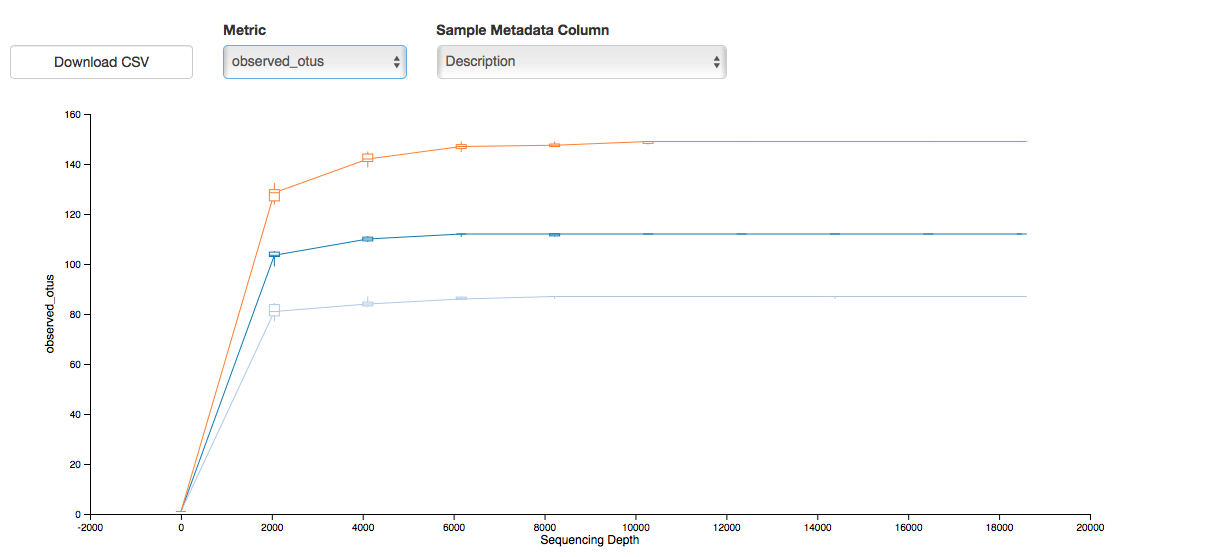
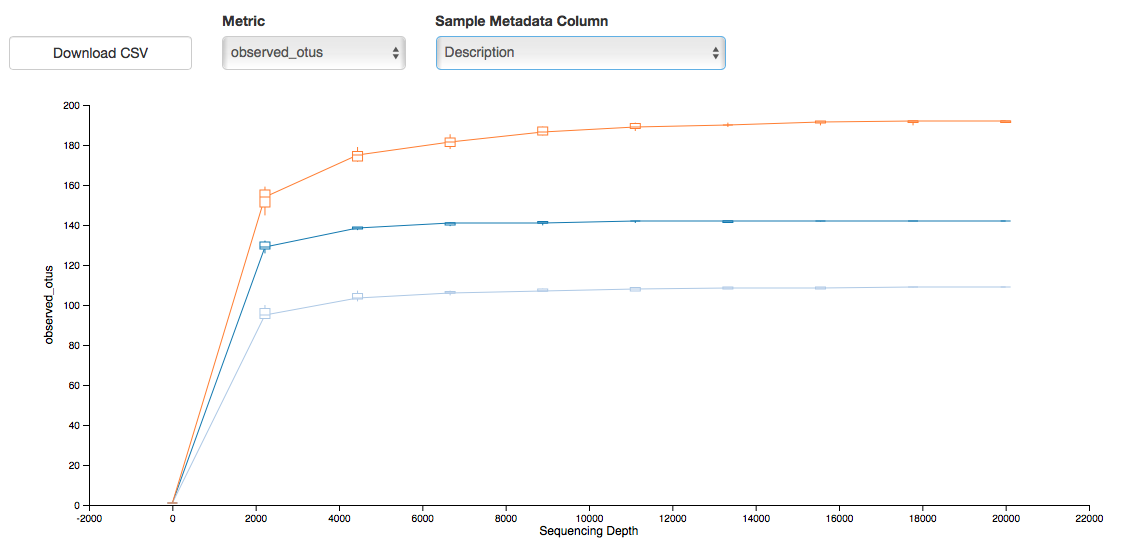
Update

diff --git a/EcoBioTec_NGS_tutorial.md b/EcoBioTec_NGS_tutorial.md
@@ -5,7 +5,7 @@ given by [**António Sousa**](https://antonioggsousa.github.io)
 
 ## Introduction
 
-First of all you need to understand the data before start. Several considerations should be taken into account before the data analysis begin depending on the sequencing technology, library preparation/chemistry, and amplicon region chosen. This tutorial has the propose to preprocess/filter, assign taxonomy, and explore diversity 
+First of all you need to understand the data before start. Several considerations should be taken into account before the data analysis begin depending on the sequencing technology, library preparation/chemistry, and amplicon region chosen. This tutorial has the purpose to preprocess/filter, assign taxonomy, and explore diversity 
 patterns of 16S rRNA amplicon sequencing data from Illumina MiSeq. To this end, we will carry out this tutorial with few samples (n=3) from the large campaign of [Ocean Sampling Day 2014](https://www.microb3.eu/events/workshops/ocean-sampling-day-2014.html) (henceforward **OSD14**). 
 
 Processing sequence reads into comprehensive biological information consists in decreasing the level of complexity 
@@ -280,7 +280,7 @@ Open each **fastqc** *html* report created for each file to have a look into the
 Run the **DADA2** algorithm/pipeline: 
 
 
-    qiime dada2 denoise-paired --i-demultiplexed-seqs demux-paired-end_OSD14.qza --p-trunc-len-f 250 --p-trunc-len-r 250 --p-n-threads 4 --o-representative-sequences rep-seqs-dada2_OSD14.qza --o-table table-dada2_OSD14.qza --output-dir dada2-dmx-pe_OSD14
+    qiime dada2 denoise-paired --i-demultiplexed-seqs demux-paired-end_OSD14.qza --p-trunc-len-f 225 --p-trunc-len-r 225 --p-n-reads-learn 30000 --p-n-threads 4 --o-representative-sequences rep-seqs-dada2_OSD14.qza --o-table table-dada2_OSD14.qza --output-dir dada2-dmx-pe_OSD14
 
 <br>
 
@@ -305,88 +305,129 @@ The results produced above can be summarized and vizualized using the following 
 
 We already have the **ASV table** (with the frequency of occurrence of each *ASV* sequence) as well as **representative sequences** (for each *ASV*). 
 
-Now, we can use a trained classifier (not recommend) or train the classifier 
+Now, we will classify the **ASVs representative sequences** using the **Naive Bayes classifier**. As any other classifier, the accuracy of **Naive Bayes classifier** depends on training data, i.e., the 16S rRNA gene database. It has been proved that training only the hypervariable region targeted by the primers used in the study in question improves the accuracy of **Naive Bayes classifier**. 
 
-Get the greengenes database:
+For the purpose of this tutorial we will not train the classifier ([*see how to train the classifier!*](https://docs.qiime2.org/2018.4/tutorials/feature-classifier/)), but instead we will used a pretrained classifier (*although not totally recommend!*) - **Greengenes 13_8 99% OTUs full-length sequences**.   
 
-    wget -O "gg-13-8-99-515-806-nb-classifier.qza" "https://data.qiime2.org/2018.2/common/gg-13-8-99-515-806-nb-classifier.qza"
+First, download the Greengenes database and check their integrity (with **MD5 checksum**):
 
-Classify your ASVs:
+    wget -O "gg-13-8-99-classifier.qza" "https://data.qiime2.org/2018.4/common/gg-13-8-99-nb-classifier.qza"
 
-    qiime feature-classifier classify-sklearn --i-classifier gg-13-8-99-515-806-nb-classifier.qza --i-reads rep-seqs-dada2_OSD14.qza --o-classification taxonomy-rep-seqs-dada2_OSD14.qza
+    md5 gg-13-8-99-classifier.qza
 
-Tabulate:
+If the result of **MD5 checksum** is the same as *MD5: bb72a9e3f1a4c810dd50bceef3508105*, it means that the database was properly downloaded (*in our case should give this: MD5 (gg-13-8-99-classifier.qza) = bb72a9e3f1a4c810dd50bceef3508105*).
+
+**Note:** You should keep in mind that **Greengenes** is **not updated** since **May, 2013**. 
+
+Then, classify the **ASVs representative sequences** with **Naives Bayes classifier**:
+
+    qiime feature-classifier classify-sklearn --i-classifier gg-13-8-99-classifier.qza --i-reads rep-seqs-dada2_OSD14.qza --o-classification taxonomy-rep-seqs-dada2_OSD14.qza
+
+Finally, get your **ASV table** with **taxonomy**:
 
     qiime metadata tabulate --m-input-file taxonomy-rep-seqs-dada2_OSD14.qza --o-visualization taxonomy-rep-seqs-dada2_OSD14.qzv 
 
     qiime tools view taxonomy-rep-seqs-dada2_OSD14.qzv
 
 
-Barplot:
+Get the prokaryotic profile (*barplot it!*):
 
     qiime taxa barplot --i-table table-dada2_OSD14.qza --i-taxonomy taxonomy-rep-seqs-dada2_OSD14.qza --m-metadata-file metadata/osd14_metadata.tsv --o-visualization taxa-bar-plots_OSD14.qzv
 
     qiime tools view taxa-bar-plots_OSD14.qzv
 
+The profile at **phylum level** should look like this:
 
-![taxa bar plot](plots/level-6-bars.svg)
-![legend bar plot](plots/level-6-legend.svg)
+![taxa bar plot](plots/barplot_taxa.png)
 
-#### Diversity Analyses
-#### Alpha and Beta Diversity
 
-Several diversity metrics are based on phylogenetic methods requiring a phylogeny. Therefore, for that propose we will do a maximum-likelihood tree (ML).
+### Alpha and beta Diversity
+#### Phylogenetic tree
 
-First, you need to perform a multiple sequence alignment (MSA) with MAFFT:
+Several diversity metrics are based on phylogenetic methods requiring a phylogenetic tree. Therefore, for that purpose we will do a maximum-likelihood tree (ML).
+
+First, you need to perform a multiple sequence alignment (MSA) with **MAFFT**:
 
     qiime alignment mafft --i-sequences rep-seqs-dada2_OSD14.qza --o-alignment mafft-rep-seqs-dada2_OSD14.qza
 
-Eliminate highly variable positions, to avoid overestimate distances:
+Then, eliminate the highly variable positions, to avoid overestimate distances:
 
     qiime alignment mask --i-alignment mafft-rep-seqs-dada2_OSD14.qza --o-masked-alignment masked-msa-rep-seqs-dada2_OSD14.qza
 
-Do a ML tree with FastTree:
+Finaly, build the ML tree with **FastTree**:
 
     qiime phylogeny fasttree --i-alignment masked-msa-rep-seqs-dada2_OSD14.qza --o-tree unroot-ml-tree-masked_OSD14.qza
 
-Root your unrooted tree based on midpoint rooting method:
+Additionally, root your unrooted tree based on midpoint rooting method:
 
     qiime phylogeny midpoint-root --i-tree unroot-ml-tree-masked_OSD14.qza --o-rooted-tree root-ml-tree_OSD14.qza
 
+<br>
 
-#### Core Diversity Analysis
+#### Core diversity analysis
 
-    qiime diversity core-metrics-phylogenetic --i-phylogeny root-ml-tree_OSD14.qza --i-table table-dada2_OSD14.qza --p-sampling-depth 18500 --m-metadata-file metadata/osd14_metadata.tsv --output-dir core-metrics-results
+**QIIME** was built-in on *scripts* that perform several instructions in order to automatize routine tasks. **QIIME2** works in a similar manner but instead of *scripts* you have know the *plugins*. The **core diversity analysis** plugin is not an exception and therefore it performs several diversity metrics by default. 
 
+An important consideration of every downstream analysis is the different number of sequences *per* sample that bias any estimation sensitive to sampling. Therefore, there is a comman approach (*not neccessarily the best one!*) to deal with this issue that is called **rarefaction**. **Rarefaction** is the proccess of subsample randomly each sample at even sampling depth (*normally to the sample with the lowest no. of reads!*). 
+
+To have an ideia of which is the most proper no. of sequences to **subsample**, run the next plugin:
+
+    qiime tools view table-dada2_OSD14.qzv
+
+Then, run the **core diversity analysis** plugin choosing the **phylogenetic** pipeline:
+
+    qiime diversity core-metrics-phylogenetic --i-phylogeny root-ml-tree_OSD14.qza --i-table table-dada2_OSD14.qza --p-sampling-depth 20000 --m-metadata-file metadata/osd14_metadata.tsv --output-dir core-metrics-results
+
+<br>
+
+#### Beta diversity
 ##### Unweighted UniFrac
+
+**Unweighted UniFrac** allows to assess how the prokaryotic communities cluster together based on the branches shared between communities. 
+
+Type the next plugin to have a look at **PCoA** built with the **Unweighted UniFrac** metric:
 
     qiime tools view core-metrics-results/unweighted_unifrac_emperor.qzv
 
+It should look like this:
 
-![unweighted unifrac](plots/unweighted_unifrac.png)
+<img src="plots/unweighted_unifrac.png" alt="unweight_unifrac" style="width: 700px;"/>
 
 
 ##### Weighted UniFrac
 
+On the other hand, **Weighted UniFrac** allows to assess how the prokaryotic communities cluster together based on the weighted (*abundance of ASVs!*) branches shared between communities. 
+
+Type the next plugin to have a look at **PCoA** built with the **Weighted UniFrac** metric:
+
     qiime tools view core-metrics-results/weighted_unifrac_emperor.qzv
 
+It should look like this:
 
-![weighted unifrac](plots/weighted_unifrac.png)
+<img src="plots/weighted_unifrac.png" alt="weight_unifrac" style="width: 700px;"/>
 
+### Alpha diversity
+##### Rarefaction
 
-##### Alpha rarefaction
+**Rarefaction** is also used to assess if the *sequencing effort* was enough to catch all the diversity present within each sample. 
 
-    qiime diversity alpha-rarefaction --i-table table-dada2_OSD14.qza --i-phylogeny root-ml-tree_OSD14.qza --p-max-depth 18500 --m-metadata-file metadata/osd14_metadata.tsv --o-visualization alpha-rarefaction_OSD14.qzv
+Run the following to see the rarefaction plots: 
+
+    qiime diversity alpha-rarefaction --i-table table-dada2_OSD14.qza --i-phylogeny root-ml-tree_OSD14.qza --p-max-depth 20000 --m-metadata-file metadata/osd14_metadata.tsv --o-visualization alpha-rarefaction_OSD14.qzv
 
     qiime tools view alpha-rarefaction_OSD14.qzv
 
-![alpha rarefaction](plots/rarefaction.png)
+
+The **rarefaction curves** should look like this:
+
+<img src="plots/rarefaction.png" alt="weight_unifrac" style="width: 700px;"/>
+
+The curves of observed no. of ASVs *per* sample seem very flatted what is an indication of a enough **sequencing effort** to catch the diversity of these communities. 
 
 <br>
 <br>
 <br>
 
-<<<<<<< HEAD
 
 ### Metagenomic prediction based on 16S profiles
 #### PICRUSt
@@ -409,8 +450,7 @@ Finalize this tutorial with a simple barplot with the predictions of functional 
 
 
 
-=======
->>>>>>> parent of 75b381b... update
+
 <br>
 <br>
 <br>
